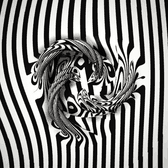
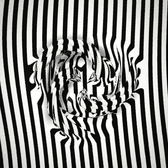
The pattern lies flat on figures, zoom reaches them, and the fist is back
Bending and leaning the pattern on steep features squeezed it into contours,
and rim shading and highlights on top read as chrome. Those are cut way back,
so each pattern shows on a face as itself. Scroll now zooms figures with the
sheet (Alt + scroll sizes them), and a figure's size no longer follows zoom.
The hand's forearm slopes into the sheet again and holding lifts it less.

diff --git a/src/adds.js b/src/adds.js
@@ -155,7 +155,7 @@ export class Form {
 
   // cfg: the settings; m: the music; v: this frame's values; cursor: [u, w] or null; want: it should be showing;
   // held: mouse down; fingers: the shader's finger curls, of which it has 10..14
-  step(dt, cfg, m, v, cursor, want, held, fingers, ready) {
+  step(dt, cfg, m, v, cursor, want, held, fingers, ready, zoom = 1) {
     const form = FORMS[FORM_INDEX[cfg.pick]] || FORMS[0];
     const wantBase = BASES.indexOf(form.base), S = cfg.shift;
     // another solid, another count of copies: melts across, once what it needs has arrived
@@ -176,7 +176,7 @@ export class Form {
     this.t += dt;
     for (const k of eased) this.val[k] += (S[k] - this.val[k]) * (1 - Math.exp(-dt * 2.2));
     if (cursor) { this.u = cursor[0]; this.w = cursor[1]; }
-    const val = this.val, sp = v.frame / 0.6;
+    const val = this.val, sp = this.sp = v.frame / zoom / 0.6;     // its size goes with the look, not your zoom: zooming takes you nearer to it, as it does the sheet
     const mixK = this.b != null ? this.mix : 0, baseK = BASE_SCALE[BASES[this.a]] * (1 - mixK) + (this.b != null ? BASE_SCALE[BASES[this.b]] * mixK : 0);
     const s = this.s = 1.25 * sp * (cfg.size || 1) * baseK;
     if (!this.placed) {
@@ -192,7 +192,7 @@ export class Form {
     // where it stands comes from the cursor at rest; holding only lifts it straight up from there. (Keeping it on
     // the cursor's line of sight as it rose would slide it toward the camera.)
     const rest = 0.04 * sp + val.rise * s * 0.5;
-    let z = rest + Math.min(0.32 * sp, 0.22 * camHeight(v)) * this.press * (handK * 0.7 + 0.3);
+    let z = rest + Math.min(0.17 * sp, 0.22 * camHeight(v)) * this.press;
     const at = fly ? rayAt(v, this.u, this.w, 0.95 * s) : rayOnSheet(v, this.u, this.w, rest + oz, 4 * camDist(v));
     if (fly) z = at[2] - oz;
     const tx = at[0] - ox, ty = at[1] - oy;
@@ -227,7 +227,7 @@ export class Form {
   drawn(V) {
     const k = (this.a === 0 ? 1 - this.mix : 0) + (this.b === 0 ? this.mix : 0);
     const m = this.b != null ? this.mix : 0, warp = BASE_WARP[BASES[this.a]] * (1 - m) + (this.b != null ? BASE_WARP[BASES[this.b]] * m : 0);
-    return { formLit: 1.5 * k, formRim: 0.35 * k, formLens: V.warp * warp, formShade: V.shade * (1 - k) };
+    return { formLit: 0.7 * k, formRim: 0.15 * k, formLens: V.warp * warp, formShade: V.shade };
   }
 
   apply(v, cfg, m) {
@@ -252,7 +252,7 @@ export class Form {
       formYaw: this.facing + V.turn + this.yawOf(A, B), formLean: V.lean + this.leanOf(A, B),
       formA: this.a, formB: this.b ?? this.a, formMix: this.b != null ? this.mix * this.mix * (3 - 2 * this.mix) : 0,
       formFA: this.fa, formFB: this.b != null ? this.fb : this.fa, formEA: this.ea, formEB: this.b != null ? this.eb : this.ea,
-      formOpen: open, formSoft: (V.blocks > 0.02 ? 0.012 : 0.015 + V.melt * V.melt * 0.42) * v.frame / 0.6, formBound: bound,
+      formOpen: open, formSoft: (V.blocks > 0.02 ? 0.012 : 0.015 + V.melt * V.melt * 0.42) * this.sp, formBound: bound,
       formSpread: V.spread, formSpin: V.spin + this.spinT * (fold > 1 ? 1 : 0), formEchoS: V.echoSize, formEchoT: V.echoTurn + w(0.17, 2) * 0.25,
       formField: field, formTwist: twist, formBend: bend, formWave: waveA > 0.004 ? waveA : 0, formWaveT: this.wave, formRopeT: this.rope,
       formSlice: V.slice, formSliceF: V.layers, formSliceA: V.sliceTilt + w(0.11, 0.7) * 0.5, formSliceP: this.sliceT, formRings: V.rings, formRingT: this.ring,

diff --git a/src/engine/forms.js b/src/engine/forms.js
@@ -11,7 +11,7 @@ export const BAKED = { face: 'face' };
 // how big each comes up for the same size setting, how far it reaches from its middle in the hand's units (rays
 // further off than that never read it), and how far its surface bends the pattern (thin parts less, or the
 // pattern gets squeezed to gray)
-export const BASE_WARP = { hand: 0.6, face: 0.85, coral: 0.3, rope: 0.22, knot: 0.25, bloom: 0.4, star: 0.55, egg: 0.45 };
+export const BASE_WARP = { hand: 0.3, face: 0.1, coral: 0.14, rope: 0.1, knot: 0.1, bloom: 0.14, star: 0.2, egg: 0.16 };
 export const BASE_SCALE = { hand: 1, face: 0.62, coral: 0.6, rope: 0.72, knot: 0.72, bloom: 0.7, star: 0.62, egg: 0.62 };
 export const BASE_REACH = { hand: 0.56, face: 0.72, coral: 0.82, rope: 0.46, knot: 0.46, bloom: 0.56, star: 0.56, egg: 0.5 };
 
@@ -24,7 +24,7 @@ export const SHIFT_DEFAULTS = {
   rings: 0,                                        // cut into shells inside each other
   holes: 0, bumps: 0, blocks: 0, swell: 0,
   rise: 0, turn: 0, lean: 0, melt: 0.3,            // how it sits
-  warp: 1, throw: 1, shade: 0.75, neg: 0, fill: 0, fine: 1, contour: 0, stripes: 130, stripeTilt: 0.9, stripeInk: 0, aura: 0,   // how it's drawn
+  warp: 1, throw: 1, shade: 0.45, neg: 0, fill: 0, fine: 1, contour: 0, stripes: 130, stripeTilt: 0.9, stripeInk: 0, aura: 0,   // how it's drawn
 };
 
 // the controls for all that: [key, label, min, max, step], grouped. The Shift tool can put any of them on your mouse.
@@ -33,7 +33,7 @@ export const SHIFT_GROUPS = [
   ['Bend it', [['twist', 'Twist', -8, 8, 0.01], ['bend', 'Bend', -3.5, 3.5, 0.01], ['wave', 'Sway', 0, 2, 0.01], ['swell', 'Thin ↔ fat', -0.05, 0.1, 0.001]]],
   ['Cut it', [['slice', 'Plates', 0, 1, 0.01], ['layers', 'How many plates', 4, 40, 0.5], ['sliceTilt', 'Which way they’re cut', -1.57, 1.57, 0.01], ['rings', 'Shells inside shells', 0, 1, 0.01], ['holes', 'Eaten through', 0, 1, 0.01], ['blocks', 'Made of cubes', 0, 1, 0.01], ['bumps', 'Bumps', 0, 1, 0.01]]],
   ['How it sits', [['rise', 'Sunk ↔ out of the sheet', -0.7, 0.9, 0.01], ['turn', 'Turn it', -3.14, 3.14, 0.01], ['lean', 'Lean it', -1.4, 1.4, 0.01], ['melt', 'Cut out ↔ melted in', 0, 1, 0.01]]],
-  ['How the pattern lies on it', [['warp', 'How far the shape bends the pattern', 0, 3, 0.01], ['throw', 'How far it’s thrown across', 0, 4, 0.01], ['fine', 'The pattern on it: bigger ↔ finer', 0.3, 3, 0.01], ['shade', 'Flat ↔ shadowed', 0, 1, 0.01], ['aura', 'Its outline ripples out', 0, 2, 0.01]]],
+  ['How the pattern lies on it', [['warp', 'Bends the pattern: flat ↔ like glass', 0, 6, 0.01], ['throw', 'How far it’s thrown across', 0, 4, 0.01], ['fine', 'The pattern on it: bigger ↔ finer', 0.3, 3, 0.01], ['shade', 'Flat ↔ shadowed', 0, 1, 0.01], ['aura', 'Its outline ripples out', 0, 2, 0.01]]],
   ['Instead of the pattern', [['neg', 'The pattern’s negative', 0, 1, 0.01], ['fill', 'White ↔ black', -1, 1, 0.01], ['contour', 'Its own stripes', 0, 1, 0.01], ['stripes', 'How many stripes', 15, 320, 1], ['stripeTilt', 'Which way they run', -1.57, 1.57, 0.01], ['stripeInk', 'Stripes: pale ↔ dark', -1, 1, 0.01]]],
 ];
 export const SHIFT_CONTROLS = Object.fromEntries(SHIFT_GROUPS.flatMap(([, c]) => c.map(x => [x[0], x])));

diff --git a/src/engine/shader.js b/src/engine/shader.js
@@ -219,7 +219,7 @@ float handSDF(vec3 p, float curl, float spread, int hb) {
     d = smin(d, sdCapsule(p, a, b, r), 0.018);
     a = b; r *= 0.85;
   }
-  return smin(d, sdCapsule(p, vec3(0.0, -0.1, -0.01), vec3(0.0, -0.17, -0.5), 0.058), 0.05);   // a short wrist, going almost straight down into the sheet
+  return smin(d, sdCapsule(p, vec3(0.0, -0.1, -0.01), vec3(0.0, -0.3, -0.42), 0.058), 0.05);   // the forearm, sloping down into the sheet
 }
 
 float hands(vec3 p) {
@@ -944,7 +944,7 @@ void main() {
         sq0 += o / r * g.w * FRAME * 0.06 * exp(-e * e);
       }
       if (PINS > 0.0) sq0 = mix(sq0, (floor(sq0 * PINF) + 0.5) / PINF, PINS * 0.0);
-      sq0 = ballFlow(sq0 + nn * 0.12);
+      sq0 = ballFlow(sq0 + nn * 0.12 * (1.0 - formK));   // (a look's own refraction would turn a form's steep sides to liquid metal)
       if (FORMAURA > 0.0) {                                           // the outline goes out across the sheet, ring after ring
         vec2 o = p.xy - vec2(FORMX, FORMY);
         if (FORMFIELD > 0.0) o -= FORMFIELD * FORMS * floor(o / (FORMFIELD * FORMS) + 0.5);
@@ -987,7 +987,7 @@ void main() {
     vec3 L = normalize(vec3(-0.45, 0.55, 0.75));
     float diff = max(dot(n, L), 0.0);
     float amb = 0.5 + 0.5 * n.z;
-    if (!onBall) v -= (diff - 0.6) * ENGRAVE * 1.4;          // light thins the ink: form drawn with lines
+    if (!onBall) v -= (diff - 0.6) * ENGRAVE * 1.4 * (1.0 - formK);          // light thins the ink: form drawn with lines
     if (PINS > 0.0) v += PINS * (1.0 - n.z) * 3.0;            // the sides of a pin go dark
     v -= THICK;
     if (formK > 0.0) {
@@ -1019,17 +1019,14 @@ void main() {
     k = mix(k, 1.0 - k, flip);
     col = mix(paper, ink, k);
     if (FORMSHADE > 0.0 && (formK > 0.0 || shutIn < 1.0)) {    // the shape itself: the pattern stays as sharp as it was, and goes into shadow
-      vec3 Ls = normalize(gBack + vec3(-0.62, 0.5, 0.15));
-      float lift = clamp(0.8 + 0.9 * (dot(n, Ls) - Ls.z), 0.0, 1.0);
-      float rim = 1.0 - max(dot(n, -rd), 0.0);
-      col *= 1.0 - FORMSHADE * (1.0 - shutIn * (1.0 - formK * (0.5 * (1.0 - lift) + 0.75 * rim * rim * rim)));   // hollows and round its foot; its sides, more toward the outline
+      col *= 1.0 - FORMSHADE * (1.0 - shutIn);                 // only in hollows and round its foot: gray gradients over sharp ink read as chrome
     }
     float spec = pow(max(dot(reflect(-L, n), -rd), 0.0), 40.0);
     if (onBall) {
       float fres = pow(1.0 - max(dot(n, -rd), 0.0), 2.0);
       col = col * (0.55 + 0.45 * diff) * (1.0 - 0.55 * fres) + pow(max(dot(reflect(-L, n), -rd), 0.0), 60.0) * 0.9;
     } else {
-      col = mix(col, col * (0.25 + 0.55 * amb + 0.55 * diff) + spec * 0.3, LIGHT);
+      col = mix(col, col * (0.25 + 0.55 * amb + 0.55 * diff) + spec * 0.3 * (1.0 - formK), LIGHT * (1.0 - 0.7 * formK));
     }
     if (MEDIAPHOTO > 0.0) {                                    // shown as a photo: a duotone in the palette, or true color
       bool pd = dot(paper, vec3(1.0)) < dot(ink1, vec3(1.0));

diff --git a/src/main.js b/src/main.js
@@ -813,7 +813,7 @@ function applyAdds(v, m, dt) {
   applyOrbs(v, A.orbs, pres.orbs, m, app.sound);
   app.ink.step(dt, m, v, rt);
   const Fm = app.form;
-  const shows = Fm.step(dt, A.figures, m, v, app.tool === 'figure' && pointer.inside && A.figures.follow ? [pointer.x, pointer.y] : null, A.figures.on, pointer.down && app.tool === 'figure', rt.fingers, baseReady);
+  const shows = Fm.step(dt, A.figures, m, v, app.tool === 'figure' && pointer.inside && A.figures.follow ? [pointer.x, pointer.y] : null, A.figures.on, pointer.down && app.tool === 'figure', rt.fingers, baseReady, app.view.zoom);
   if (shows) Fm.apply(v, A.figures, m);
   const bakedId = Fm.bakedNow;
   rt.solid = bakedId ? solid(bakedId) : null;
@@ -821,9 +821,10 @@ function applyAdds(v, m, dt) {
   app.ball.apply(v, A.ball);
   // seen from above, a shape would hardly show: the lines lean over it by its height
   const flat = 1 - clamp((v.pitch - 0.08) / 0.75, 0, 1), handK = (Fm.a === 0 ? 1 - Fm.mix : 0) + (Fm.b === 0 ? Fm.mix : 0);
-  v.relief = Fm.on * (v.formThrow ?? 1) * (0.6 * flat * handK + (0.8 + 1.2 * flat) * (1 - handK));
+  v.relief = Fm.on * (v.formThrow ?? 1) * (0.6 * flat * handK + (0.15 + 0.3 * flat) * (1 - handK));
   // and they crowd in, so a form under them is drawn in enough lines to be seen
-  if (Fm.on > 0) v.freq += Math.max(Math.min(17 / v.frame, v.freq * (v.vortex > 1 || v.conf > 0.5 ? 1.25 : 1.5)) - v.freq, 0) * Fm.on * (1 - Fm.val.contour);   // (in its own stripes it doesn't need them)
+  // a hand is fine detail: a few more lines to draw it with. The same at any zoom, so zooming only ever moves you
+  if (Fm.on > 0) v.freq *= 1 + (v.vortex > 1 || v.conf > 0.5 ? 0.25 : 0.5) * Fm.on * handK * (1 - Fm.val.contour);
   applyInputs(v, m);
   // never a screen of one solid color, whatever the music, the ties or the cinematic camera do:
   // keep at least a few lines in view however far it zooms in, and never let the ink flood the frame
@@ -1067,7 +1068,7 @@ canvas.addEventListener('pointerleave', () => { pointer.inside = false; updateRi
 canvas.addEventListener('dblclick', () => app.resetView());
 canvas.addEventListener('wheel', e => {
   e.preventDefault();
-  if (['figure', 'shift', 'turn'].includes(app.tool) && app.adds.figures.on) {
+  if (e.altKey && app.adds.figures.on) {
     app.adds.figures.size = clamp(app.adds.figures.size * Math.exp(-e.deltaY * 0.0015), 0.3, 3);
     ui.syncFigures();
     return;

diff --git a/src/ui/ui.js b/src/ui/ui.js
@@ -16,7 +16,7 @@ export const TOOLS = [
   { id: 'bulge', icon: 'bulge', name: 'Bulge', tip: 'Bulge: hold to puff it up' },
   { id: 'pinch', icon: 'pinch', name: 'Pinch', tip: 'Pinch: hold to suck it in' },
   { id: 'smear', icon: 'smear', name: 'Smear', tip: 'Smear: drag like wet paint' },
-  { id: 'figure', icon: 'hand', name: 'Figure', tip: 'Your cursor has the figure: hold and it reacts, scroll to size it' },
+  { id: 'figure', icon: 'hand', name: 'Figure', tip: 'Your cursor has the figure: hold and it reacts. Alt + scroll sizes it' },
   { id: 'shift', icon: 'shift', name: 'Shift', tip: 'Shift the figure: drag sideways and up and down. Click again to choose what each does' },
   { id: 'turn', icon: 'turn', name: 'Turn', tip: 'Turn the figure: drag sideways to spin it, up and down to lean it' },
   { id: 'camera', icon: 'orbit', name: 'Camera', tip: 'Camera: drag to turn and tilt, scroll to zoom (right-drag works with any tool)' },

diff --git a/README.md b/README.md
@@ -12,8 +12,8 @@ Everything fades away when you stop moving the mouse. At the bottom:
   - **Solid**: flat, hard-edged black and white. Triangle Vortex, Endless Triangles (conformal: tiles keep their shape as they fall in for ever), Two Poles, Twin Whirlpools, Circle Limit (a real hyperbolic tiling, after Escher), Tumbling Blocks, Truchet, Blaze (after Riley), Stargate, Op Stripes, Squeeze, Vasarely…
   - **Strange**: patterns out of mathematics and sound. Cymatics and Chladni Sand (the note decides the figure), Crystal (families of straight lines, each sliding to its own part of the sound), Ink (real marbling: every kick and sung note drops ink on the water and pushes everything aside), Metamorphosis (squares melting into interlocking creatures), Planets, Khatam and Rosette (star lattices the tune sharpens), Lace, Julia (a fractal walking with the tune), Quasicrystal, Agate, Ripple Tank, Living Labyrinth (reaction-diffusion: it grows by itself)…
   - **Worlds**: the pattern as a place. Triangle Floor, Checker Hills, Line Landscape, Silk, Origami, Pulsar (the sound rolling away through thin lines), Pin Art (a bed of pins, pushed up by the sound), Hallway, Menger Sponge…
-- **Figures** (`G`): shapes that come up through the sheet under your cursor, each cut hard against what's behind it. A figure is only a shape: it wears whatever pattern is showing, thrown across its surface and bent by it, so the same face looks different on every pattern. The Hand and The Face (lying in the sheet, its brow, nose, lips and chin above it and its sockets and hollows sunk below), and things grown and cut: Coral, Rope, Knot, Bloom, Star, Sponge. Hold the mouse and it reacts. Pick another and the first melts into it. Move the camera and you see it from another side.
-- **Shifting a figure**: fold it round into a wheel, grow smaller copies out of it, cover the sheet with a field of them, twist and bend it, cut it into plates or shells, eat holes through it, build it out of cubes, send its outline rippling across the sheet. You can also change how far it bends the pattern, or swap the pattern on it for the negative, plain black or white, or stripes of its own. The **Shift** tool puts any two of those on your mouse (click it again to choose which); **Turn** spins and leans it; scroll sizes it; `[` and `]` fold it; `X` shifts it at random, `Z` puts it back. A song leaves figures out unless you ask for them in Sound.
+- **Figures** (`G`): shapes that come up through the sheet under your cursor, each cut hard against what's behind it. A figure is only a shape: it wears whatever pattern is showing, laid over its surface, so the same face looks different on every pattern. The Hand and The Face (lying in the sheet, its brow, nose, lips and chin above it and its sockets and hollows sunk below), and things grown and cut: Coral, Rope, Knot, Bloom, Star, Sponge. Hold the mouse and it reacts. Pick another and the first melts into it. Move the camera and you see it from another side.
+- **Shifting a figure**: fold it round into a wheel, grow smaller copies out of it, cover the sheet with a field of them, twist and bend it, cut it into plates or shells, eat holes through it, build it out of cubes, send its outline rippling across the sheet. You can also change how far it bends the pattern, or swap the pattern on it for the negative, plain black or white, or stripes of its own. The **Shift** tool puts any two of those on your mouse (click it again to choose which); **Turn** spins and leans it; Alt + scroll sizes it; `[` and `]` fold it; `X` shifts it at random, `Z` puts it back. A song leaves figures out unless you ask for them in Sound.
   - *Other things to add* (in the same panel): a pair of hands, a ghost face, the chrome ball, orbs, you (the camera), a picture or words.
 - **Sound** (`M`): pick a song (or drop one anywhere). It's listened to once and remembered; nothing is uploaded.
   - **Direct it for me** keeps the picture travelling with the song: a new scene every eight bars or so, each a slow morph out of the last that peaks on the beat where it lands, and a camera that never stops, turning, tilting from straight down to the horizon and back. Choose the **color** (B&W, one color, full), **figures** (none by default), **flat or 3D**, the **pace**, or **another take**.
@@ -22,7 +22,7 @@ Everything fades away when you stop moving the mouse. At the bottom:
   - The bar above the dock is the song's map: its loudness with the tune's line through it. Click to go there.
 - **Tweak** (`T`): colors, this look's sliders, motion and camera; the rest folded away. Any slider can follow the music (its ∿ button), now including the melody, slides and sustain.
 
-**Tools**, right of those: Ripple, Twist, Bulge, Pinch, Smear, Figure, Shift, Turn, Camera (`1`–`9`). Click the current one for its settings. Right-drag turns the camera with any tool; scroll zooms (with a figure's tools, it sizes the figure); double-click puts it back. The film icon (`C`) is the cinematic camera.
+**Tools**, right of those: Ripple, Twist, Bulge, Pinch, Smear, Figure, Shift, Turn, Camera (`1`–`9`). Click the current one for its settings. Right-drag turns the camera with any tool; scroll zooms, figures included; double-click puts it back. The film icon (`C`) is the cinematic camera.
 
 **Top right**: Surprise (`D`), and behind `···`: Breed this look (`E`), pause, picture, record (with the song), link, fullscreen, hide everything (`H`), and three switches: the ring around the cursor, wandering (left alone for a while with no song, the camera sets off and the looks turn slowly into each other), and 60 fps.
 
